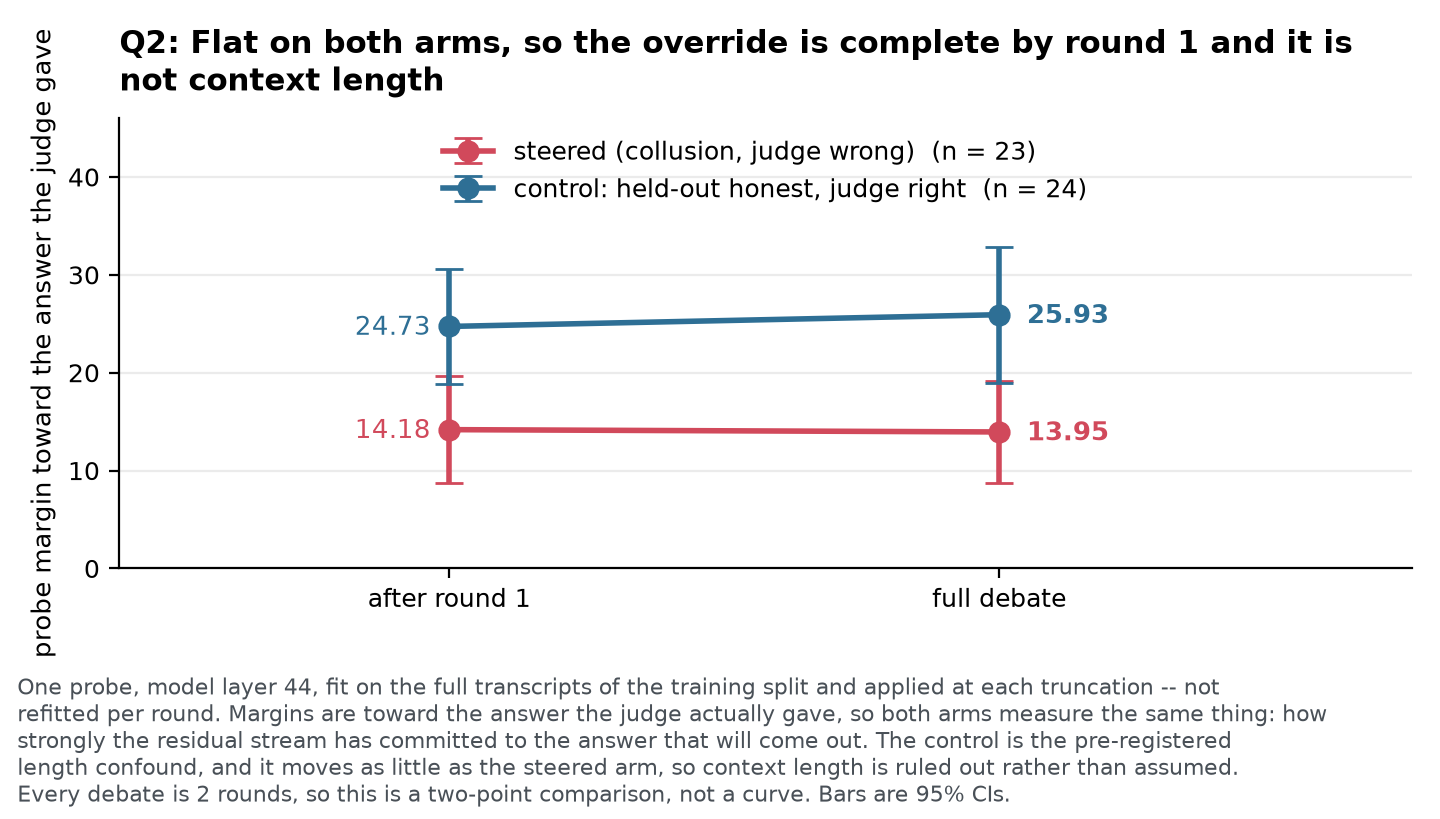
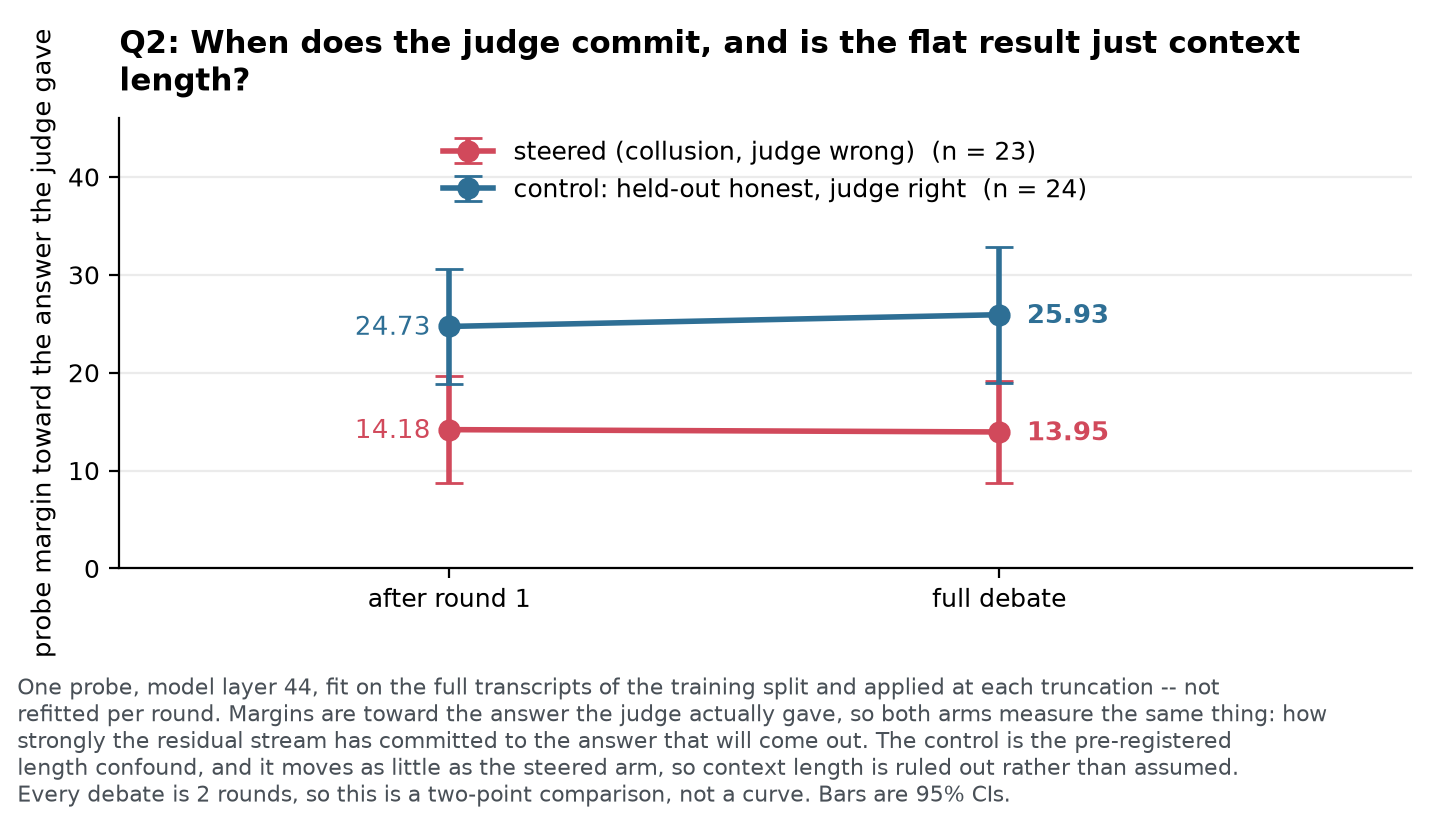
Make each figure title the question its section asks
The four plots carried claim-style titles that restated their captions; they now
carry the section questions verbatim, so a figure lifted out of the doc still
says which question it belongs to.

Two consequences handled here: the section headers are capitalised so the doc and
the plot read as the same string, and each header now sits ABOVE its figure. The
images were previously placed before their own headers, so a reader met the plot
before being told what it answers. fig3 gains a standalone header for the same
shape; its lead-in had been inline with the paragraph.

Changed region(s): [[0.0938, 0.0305, 0.5625, 0.1221], [0.5938, 0.0305, 0.9375, 0.0916]]

diff --git a/scripts/make_figures.py b/scripts/make_figures.py
@@ -178,8 +178,7 @@ def fig_q0(verdicts: list[dict], out: Path, dpi: int) -> None:
     ax.legend(frameon=False, loc="upper right", ncols=2)
     ax.grid(axis="y", alpha=0.25, zorder=0)
     finish(fig, ax, out, dpi,
-           "Q0: Covert collusion raises the judge's error rate, and more reliably "
-           "destroys its verdict entirely",
+           "Q0: Can two debaters covertly steer this judge?",
            f"Qwen2.5-32B-Instruct judge, {h['n']} honest vs {c['n']} colluded "
            "QuALITY debates, every debate judged in both presentation orders. "
            "Order-consistency is the share where the two orders agree on an answer; "
@@ -224,7 +223,7 @@ def fig_q1(p3: dict, out: Path, dpi: int) -> None:
     ax.set_ylim(0, 1.20)
     ax.grid(axis="y", alpha=0.25, zorder=0)
     finish(fig, ax, out, dpi,
-           "Q1: 91% where truth and verdict agree, below chance where they come apart",
+           "Q1: When steering succeeds, does the judge still encode the right answer?",
            f"Mass-mean probe at model layer {p3['model_layer']}, layer selected on "
            "held-out articles. The two numbers are not in tension: on the training "
            "distribution truth and verdict coincide by construction, so a pure "
@@ -327,8 +326,7 @@ def fig_q2(p5: dict, out: Path, dpi: int) -> None:
     ax.legend(frameon=False, loc="upper center", ncols=1)
     ax.grid(axis="y", alpha=0.25, zorder=0)
     finish(fig, ax, out, dpi,
-           "Q2: Flat on both arms, so the override is complete by round 1 and it is "
-           "not context length",
+           "Q2: When does the judge commit, and is the flat result just context length?",
            f"One probe, model layer {p5['model_layer']}, fit on the full transcripts "
            "of the training split and applied at each truncation -- not refitted per "
            "round. Margins are toward the answer the judge actually gave, so both "

diff --git a/writeup/exec_summary.md b/writeup/exec_summary.md
@@ -43,9 +43,9 @@ swapping the options is what cancels it:
 All p-values below are one-tailed: Fisher exact for the between-condition rates,
 binomial for a single accuracy against chance.
 
-![Q0: covert collusion raises the judge's error rate, and more reliably destroys its verdict entirely](../figures/fig1_q0.png)
+**Q0: Can two debaters covertly steer this judge?**
 
-**Q0: can two debaters covertly steer this judge?**
+![Q0: Can two debaters covertly steer this judge?](../figures/fig1_q0.png)
 
 **Yes — but the main effect is not the one I expected.** Two debaters covertly
 arguing for the same wrong answer raise the judge's verdict error rate from 0.118 to
@@ -59,9 +59,9 @@ either error rate. A colluded debate that leaves the judge nothing decisive does
 move it to the wrong answer; it pushes it back onto position bias, and the debate
 stops having a verdict at all.
 
-![Q1: 91% where truth and verdict agree, below chance where they come apart](../figures/fig2_q1.png)
+**Q1: When steering succeeds, does the judge still encode the right answer?**
 
-**Q1: when steering succeeds, does the judge still encode the right answer?**
+![Q1: When steering succeeds, does the judge still encode the right answer?](../figures/fig2_q1.png)
 
 **No — and what is there instead is the finding.** The direction that looks like a
 truth detector is a verdict detector: it encodes the answer the judge is about to
@@ -82,9 +82,11 @@ only place the two labels separate, and there it follows the verdict. A probe
 validated the obvious way looks like a working audit tool and is not one: it agrees
 with the judge exactly when you would need it to disagree.
 
-![The result I deleted: the near-tie effect was regression to the mean](../figures/fig3_killed.png)
+**The result I deleted**
 
-**The result I deleted.** My pre-registered secondary criterion gave 80 test
+![The result I deleted: The near-tie effect was regression to the mean](../figures/fig3_killed.png)
+
+My pre-registered secondary criterion gave 80 test
 cases and said the opposite: the probe read gold 74.4% of the time on debates where
 the judge never committed (p = 0.001). That is the knows-versus-says gap this
 project was looking for. It did not survive a clean test. The bin came from a
@@ -93,9 +95,9 @@ cases where noise ran low. Re-run with one probe across every order-split debate
 0.653, below the judge's own forced-choice accuracy of 0.709 on the same debates.
 Regression to the mean, not a truth signal.
 
-![Q2: flat on both arms, so the override is complete by round 1 and it is not context length](../figures/fig4_q2.png)
+**Q2: When does the judge commit, and is the flat result just context length?**
 
-**Q2: when does the judge commit, and is the flat result just context length?**
+![Q2: When does the judge commit, and is the flat result just context length?](../figures/fig4_q2.png)
 
 **By the end of round 1, and no.** The probe margin toward the answer the judge gave
 barely moves between round 1 and the full debate: steered 14.18 to 13.95, control
